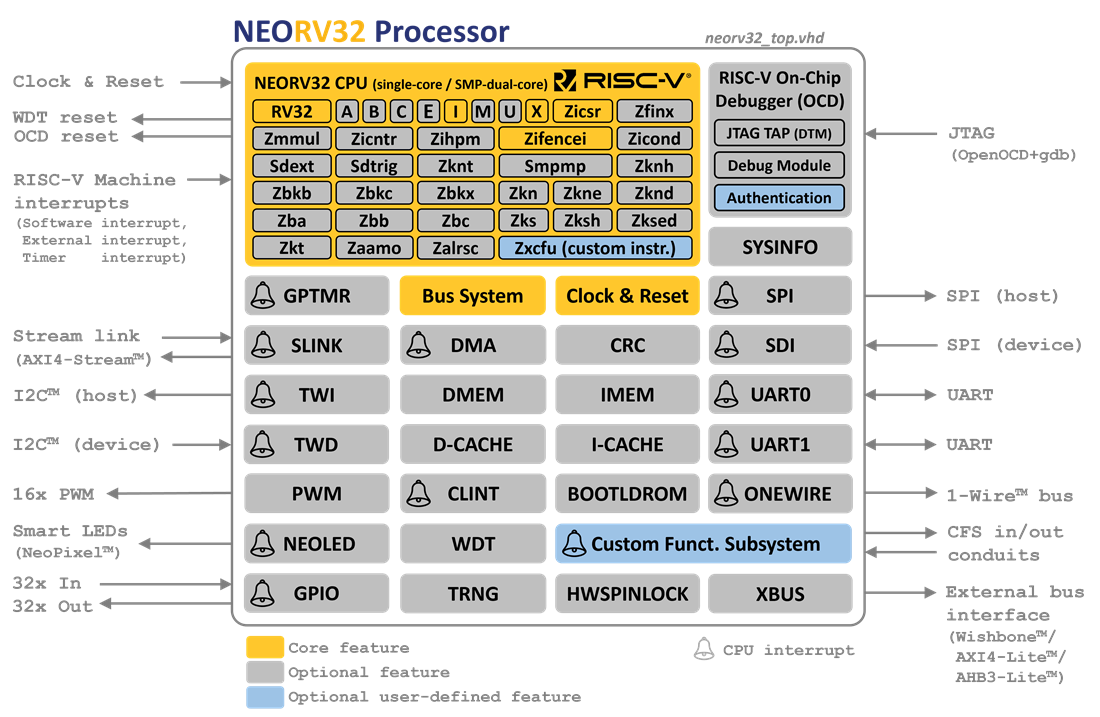
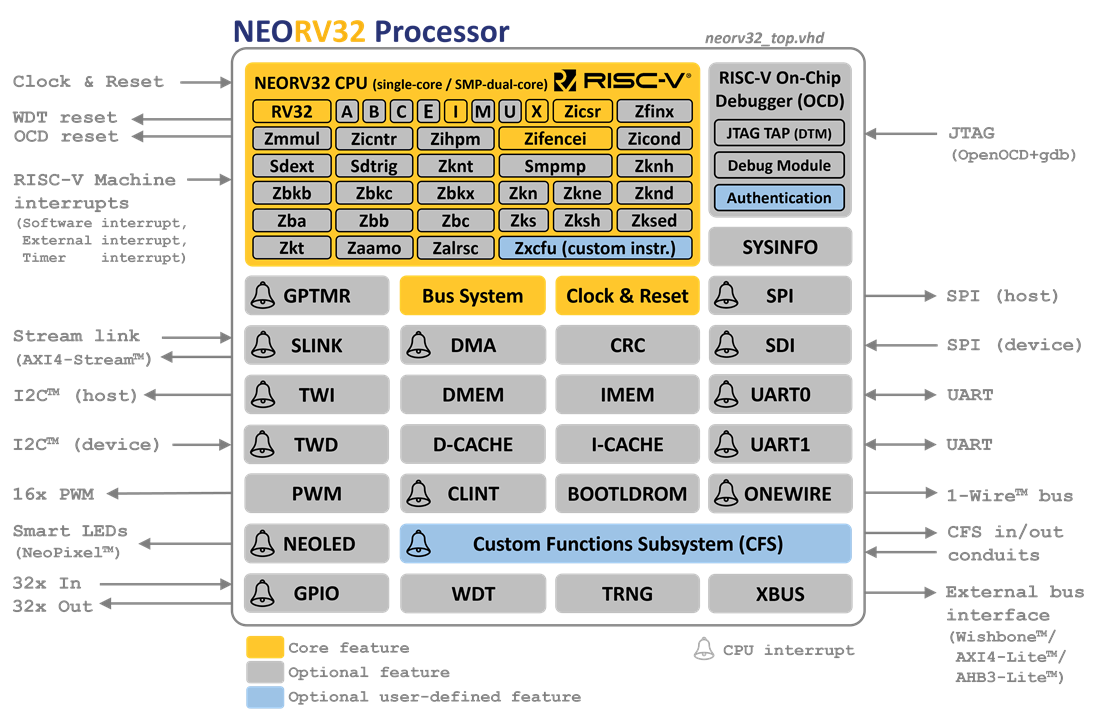
[docs] remove HWSPINLOCK

Changed region(s): [[0.34, 0.7057, 0.7418, 0.8591], [0.5255, 0.7978, 0.6182, 0.8591]]

diff --git a/README.md b/README.md
@@ -190,7 +190,6 @@ for custom tightly-coupled co-processors, accelerators or interfaces
 data transfers and conversions
 * cyclic redundancy check unit ([CRC](https://stnolting.github.io/neorv32/#_cyclic_redundancy_check_crc)) to test
 data integrity (CRC8/16/32)
-* 32 dedicated hardware spinlocks ([HWSPINLOCK](https://stnolting.github.io/neorv32/#_hardware_spinlocks_hwspinlock))
 
 **Debugging**
 
